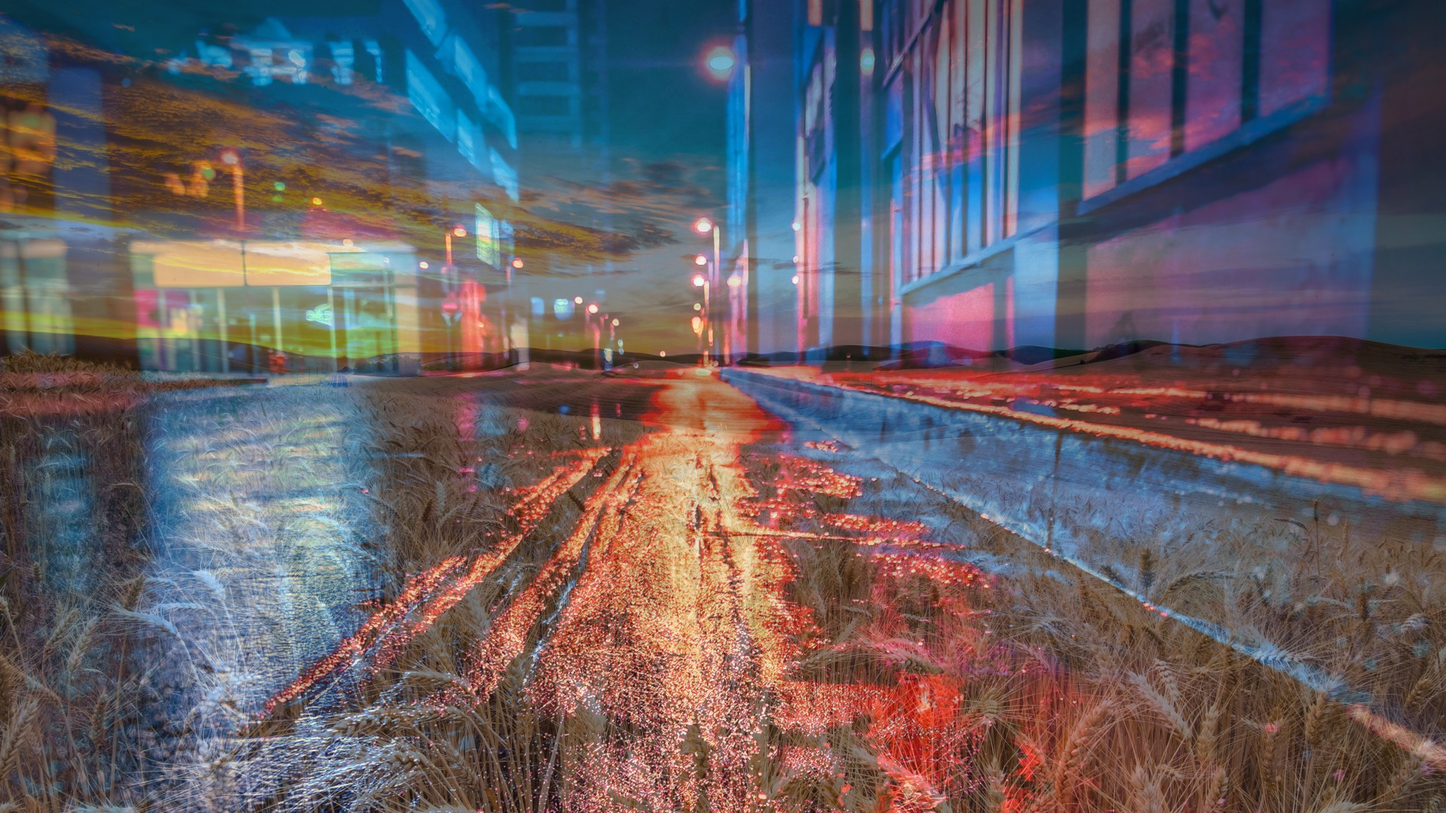
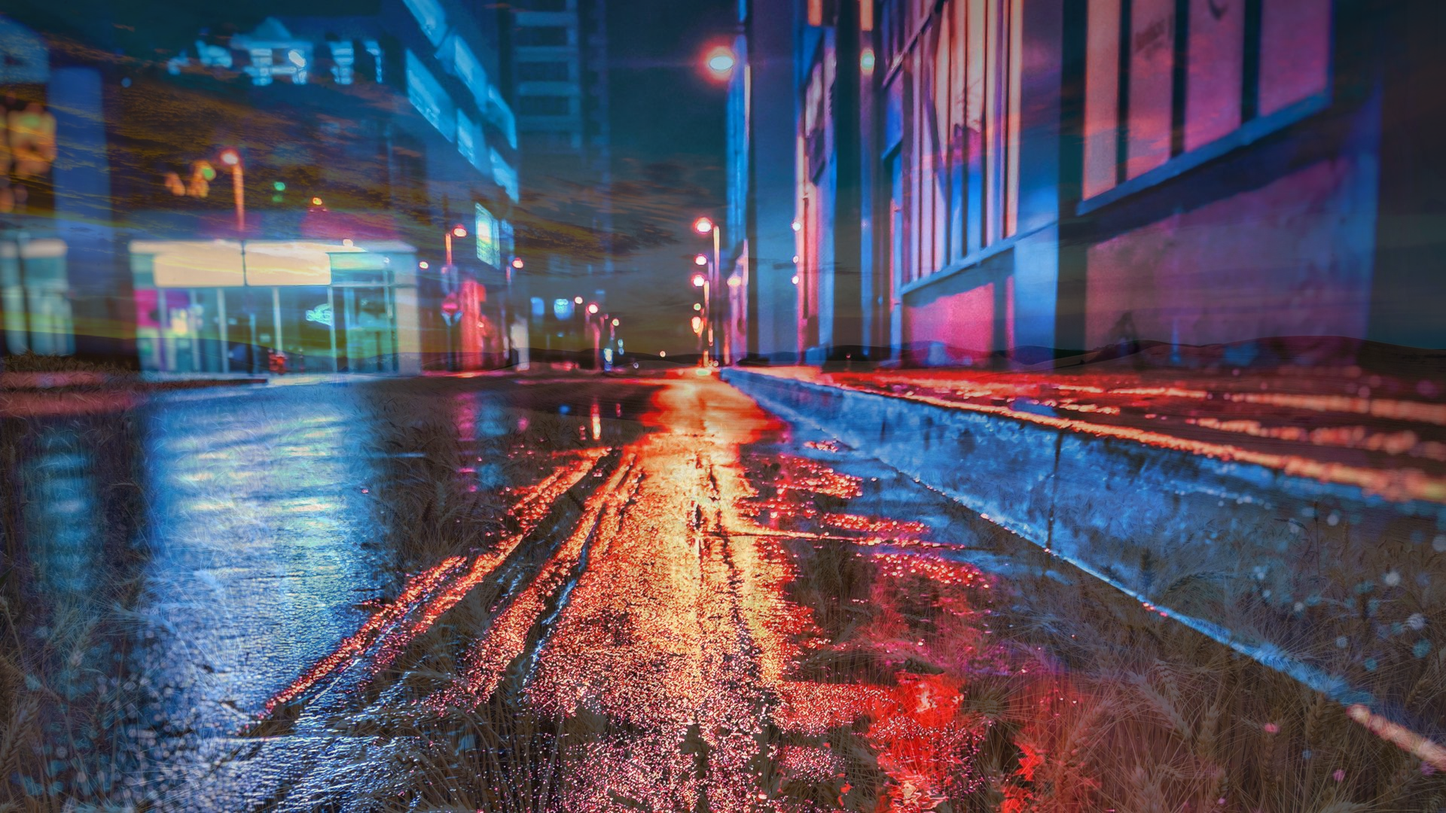
snapshot

diff --git a/lab2.cc b/lab2.cc
@@ -10,12 +10,12 @@
 using namespace std;
 using namespace cv;
 
-void blending_by_func(Mat img1, Mat img2, double alpha, Mat dst){
-    double beta = ( 1.0 - alpha );
+void blending_by_func(Mat img1, Mat img2, float alpha, Mat dst){
+    float beta = ( 1.0 - alpha );
     addWeighted( img1, alpha, img2, beta, 0.0, dst);
 }
 
-void blending_simple(Mat img1, Mat img2, Mat dst){
+void blending_simple(Mat img1, Mat img2, Mat dst, float alpha){
 	int cn1 = img1.channels();
 	int cn2 = img2.channels();
 
@@ -29,37 +29,40 @@ void blending_simple(Mat img1, Mat img2, Mat dst){
 			Vec3b & c_img2 = img2.at<Vec3b>(i,j);
 			Vec3b & c_dst = dst.at<Vec3b>(i,j);
 
-			c_dst.val[0] = c_img1.val[0] * 0.5 + c_img2[0] * 0.5;
-			c_dst.val[1] = c_img1.val[1] * 0.5 + c_img2[1] * 0.5;
-			c_dst.val[2] = c_img1.val[2] * 0.5 + c_img2[2] * 0.5;
+			c_dst.val[0] = c_img1.val[0] * alpha + c_img2[0] * (1.0 - alpha);
+			c_dst.val[1] = c_img1.val[1] * alpha + c_img2[1] * (1.0 - alpha);
+			c_dst.val[2] = c_img1.val[2] * alpha + c_img2[2] * (1.0 - alpha);
 		}
 	}
 
 	imwrite("simp.png", dst);
 }
 
-void blending_neon(const uint8_t* img1, const uint8_t* img2, uint8_t* dst, int num_pixels){
+void blending_neon(const uint8_t* img1, const uint8_t* img2, uint8_t* dst, int num_pixels, float alpha){
 	num_pixels /= 8;
 
 	uint16x8_t temp;
 	uint8x8x3_t result;
+    float16x8_t v_alpha = vdupq_n_f16(alpha);
+
+    float16x8_t v_beta = vdupq_n_f16(1.0 - alpha);
 
 	for(int i =0; i<num_pixels; i++, img1+=8*3, img2+=8*3, dst+=8*3){
 		uint8x8x3_t img1_8 = vld3_u8(img1);
 		uint8x8x3_t img2_8 = vld3_u8(img2);
 
+        float16x8_t img1_f16_b = vreinterpretq_f16_u16((uint8x16_t)img1_8.val[0]);
 		img1_8.val[0] = vshr_n_u8(img1_8.val[0], 1);
 		img1_8.val[1] = vshr_n_u8(img1_8.val[1], 1);
 		img1_8.val[2] = vshr_n_u8(img1_8.val[2], 1);
-
+ 
 		img2_8.val[0] = vshr_n_u8(img2_8.val[0], 1);
-    img2_8.val[1] = vshr_n_u8(img2_8.val[1], 1);
+        img2_8.val[1] = vshr_n_u8(img2_8.val[1], 1);
 		img2_8.val[2] = vshr_n_u8(img2_8.val[2], 1);
 
 		result.val[0] = vadd_u8(img1_8.val[0], img2_8.val[0]);
 		result.val[1] = vadd_u8(img1_8.val[1], img2_8.val[1]);
 		result.val[2] = vadd_u8(img1_8.val[2], img2_8.val[2]);
-		//result = vshrn_n_u16(temp, 1);
 
 		vst3_u8(dst, result);
 	}
@@ -109,17 +112,17 @@ int main(int argc,char** argv)
 	int num_pixels = width*height;
 
 	Mat neon_dst(height, width, img1.type());
-  auto t1_neon = chrono::high_resolution_clock::now();
-	blending_neon(img_arr1, img_arr2, neon_dst.data, num_pixels);
-  auto t2_neon = chrono::high_resolution_clock::now();
-  auto duration_neon = chrono::duration_cast<chrono::microseconds>(t2_neon-t1_neon).count();
-  cout << "Neon duraion" << endl;
-  cout << duration_neon << endl;
-  imwrite("neon.png", neon_dst);
+//  auto t1_neon = chrono::high_resolution_clock::now();
+	//blending_neon(img_arr1, img_arr2, neon_dst.data, num_pixels);
+//  auto t2_neon = chrono::high_resolution_clock::now();
+ // auto duration_neon = chrono::duration_cast<chrono::microseconds>(t2_neon-t1_neon).count();
+  //cout << "Neon duraion" << endl;
+  //cout << duration_neon << endl;
+  //imwrite("neon.png", neon_dst);
 
 	Mat simple_dst(height, width, img1.type());
   auto t1_simp = chrono::high_resolution_clock::now();
-  blending_simple(img1, img2, simple_dst);
+  blending_simple(img1, img2, simple_dst, 0.3);
   auto t2_simp = chrono::high_resolution_clock::now();
   auto duration_simp = chrono::duration_cast<chrono::microseconds>(t2_simp-t1_simp).count();
   cout << "Simple duraion" << endl;
@@ -128,7 +131,7 @@ int main(int argc,char** argv)
 
 	Mat func_dst(height, width, img1.type());
   auto t1_func = chrono::high_resolution_clock::now();
-	blending_by_func(img1, img2, 0.5, func_dst);
+	blending_by_func(img1, img2, 0.3, func_dst);
   auto t2_func = chrono::high_resolution_clock::now();
   auto duration_func = chrono::duration_cast<chrono::microseconds>(t2_func-t1_func).count();
   cout << "addWeighted function duraion" << endl;
